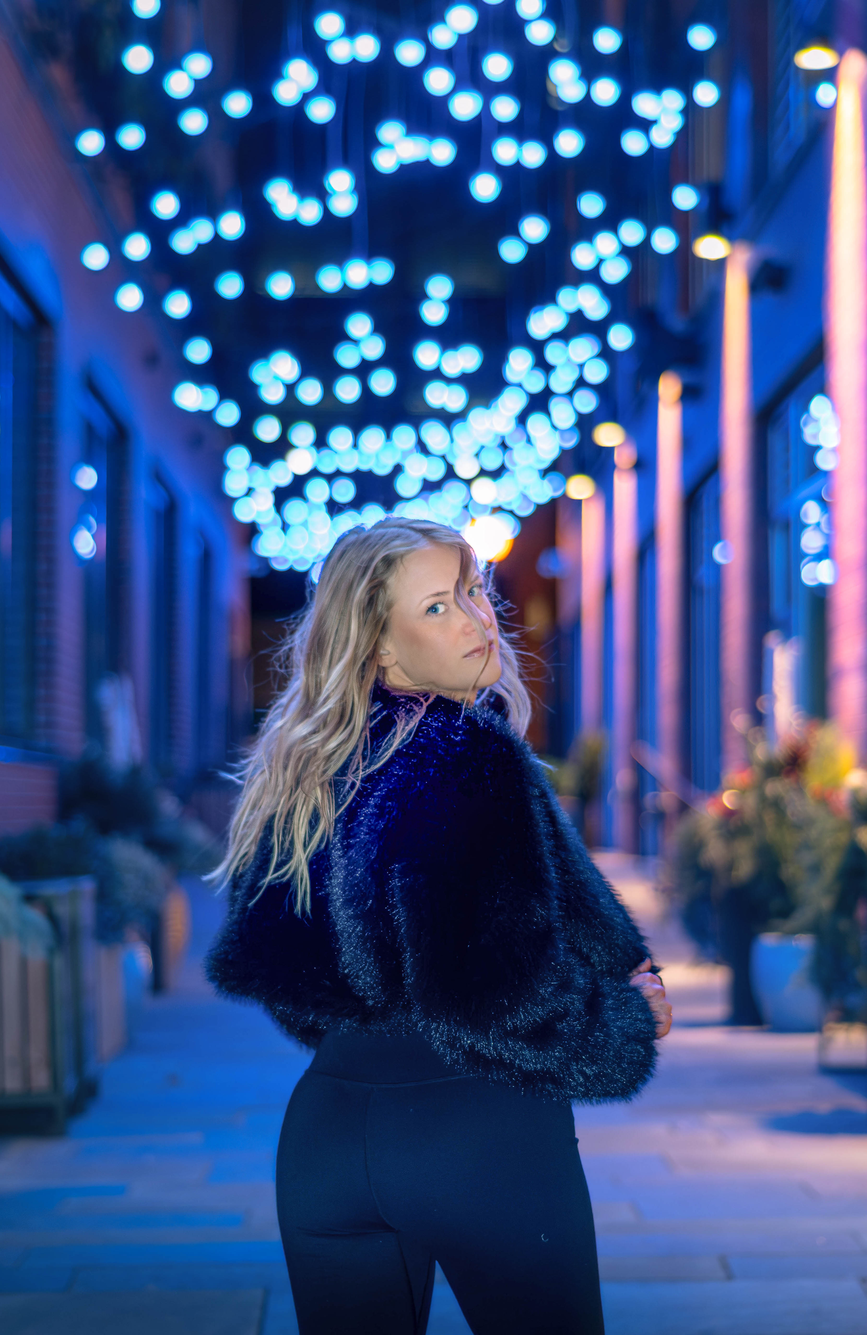
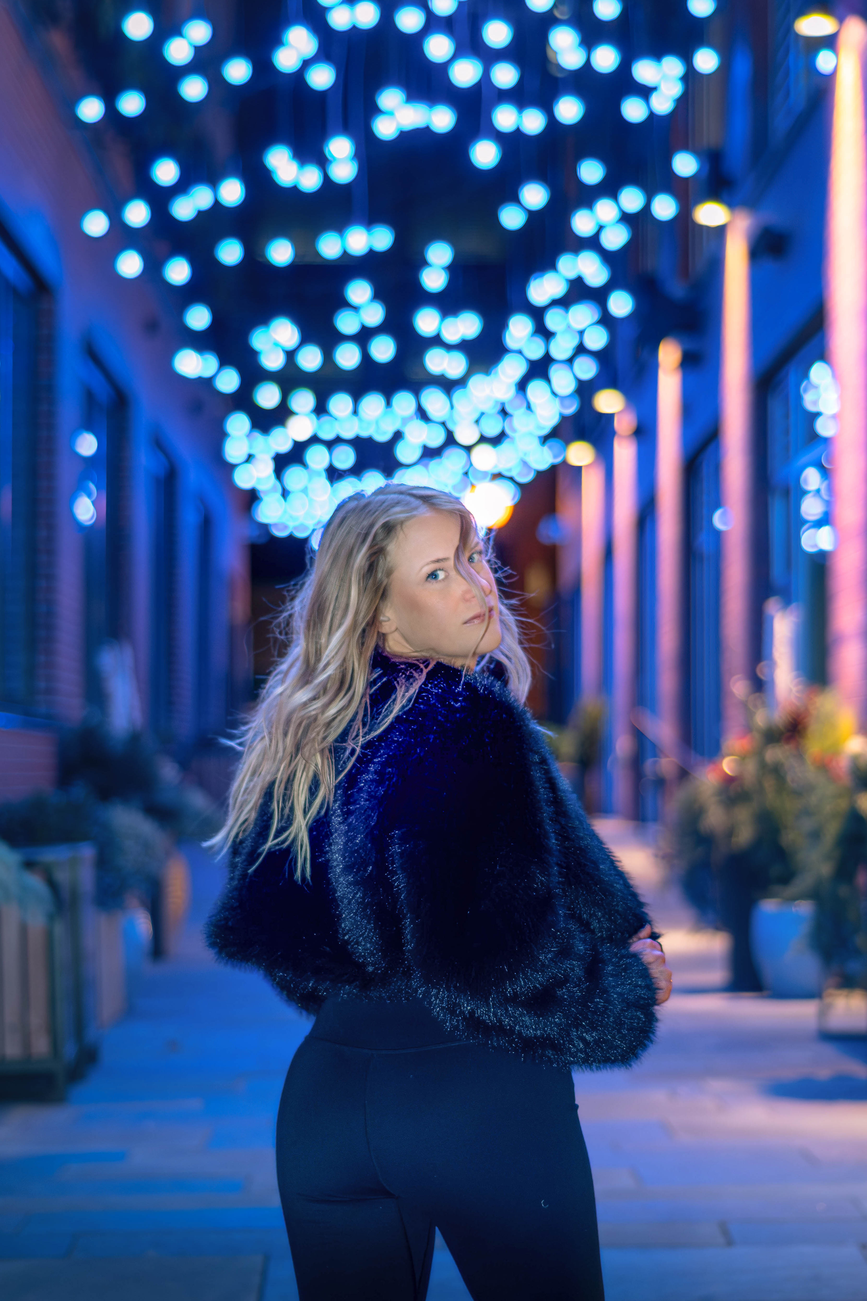
Add the TX rail, curate the second rail, lead with portrait-08
MOBILE_LEAD pins portrait-08 third. The second rail becomes a curated
project (portrait-02, portrait-05, portrait-01) rather than whatever the
2:3 shape group happened to hold - a shape rail is ordered by aspect
ratio, so exact membership and order need a project. portrait-02 was
0.650 against the others' 0.667, which letterboxed it in the panel;
cropped to 2:3 off the empty top.

TX is a second curated project. Its two Big Bend landscapes can't join a
rail - rails take portrait-oriented photos only - so they render in the
grid as featured-07/08, and the rail is the three portrait-shaped TX
photos at a uniform 2:3.

Rail titles were hardcoded to the first rail; they now key off
Photo.project so each curated rail names itself and shape rails stay
untitled.

Also fixes comedy-03, which was declared 3000x4088 but is really
1080x1080 - the stale dimensions put a square photo in a 0.734 group.
DSC_4474-4.JPG was renamed lowercase; the uppercase extension would have
404'd on Vercel's case-sensitive filesystem.

diff --git a/lib/photos.ts b/lib/photos.ts
@@ -44,6 +44,7 @@ export type { Photo };
 export const MOBILE_LEAD: string[] = [
   '/photos/portrait-03.jpg',
   '/photos/music-02.jpg',
+  '/photos/portrait-08.jpg',
   '/photos/portrait-10.jpg',
   '/photos/portrait-07.jpg',
   '/photos/portrait-04.jpg',
@@ -68,7 +69,7 @@ export const featuredPhotos: Photo[] = [
   // vertical
   { src: '/photos/comedy-01.jpg', alt: 'Stacked portrait of three comedians in caps, lit in purple and green', width: 1929, height: 2600, category: 'comedy' },
   { src: '/photos/comedy-02.jpg', alt: 'Distorted composite portrait of a man in a cap and sweatshirt, his face warped by a motion-blur effect', width: 3000, height: 4000, category: 'comedy' },
-  { src: '/photos/comedy-03.jpg', alt: 'Black and white portrait of a smiling, mustached comedian double-exposed with a laughing audience crowd', width: 3000, height: 4088, category: 'comedy' },
+  { src: '/photos/comedy-03.jpg', alt: 'Black and white portrait of a smiling, mustached comedian double-exposed with a laughing audience crowd', width: 1080, height: 1080, category: 'comedy' },
   { src: '/photos/comedy-04.jpg', alt: 'Stylized portrait of a smiling man in a backwards cap and gold chains throwing a peace sign, composited over a stormy city skyline lit by lightning', width: 1122, height: 1402, category: 'comedy', project: 'framed', projectOrder: 2 },
   { src: '/photos/comedy-05.jpg', alt: 'Stylized portrait of a man in a leather jacket and sunglasses composited over a black-and-white crowd scene', width: 1122, height: 1402, category: 'comedy', project: 'framed', projectOrder: 1 },
   { src: '/photos/comedy-15.jpg', alt: 'Comedian gritting his teeth and squinting while pointing a corded microphone at the camera', width: 3712, height: 5568, category: 'comedy' },
@@ -81,15 +82,17 @@ export const featuredPhotos: Photo[] = [
   { src: '/photos/comedy-20.jpg', alt: 'Bald, bearded comedian in sunglasses and a plaid shirt with smoke curling beside him, framed inset over a blurred black-and-white crowd', width: 1080, height: 1350, category: 'comedy' },
   { src: '/photos/comedy-21.jpg', alt: 'Man with a strawberry-blond mullet, mustache, and neck tattoos tilting his head back in a patterned western snap shirt, inside a thin white frame', width: 3799, height: 4749, category: 'comedy', project: 'framed', projectOrder: 4 },
   { src: '/photos/portrait-03.jpg', alt: 'Two women in elaborate Day of the Dead costumes standing in a desert canyon', width: 2666, height: 4000, category: 'portraits' },
-  { src: '/photos/portrait-01.jpg', alt: 'Woman walking away toward a sunlit overlook at golden hour', width: 3981, height: 5972, category: 'portraits' },
-  { src: '/photos/portrait-02.jpg', alt: 'Blonde woman in a navy fur coat glancing back beneath a canopy of blue string lights in a city alley', width: 3615, height: 5561, category: 'portraits' },
+  { src: '/photos/portrait-01.jpg', alt: 'Woman walking away toward a sunlit overlook at golden hour', width: 3981, height: 5972, category: 'portraits', project: 'series-two', projectOrder: 3 },
+  { src: '/photos/portrait-02.jpg', alt: 'Blonde woman in a navy fur coat glancing back beneath a canopy of blue string lights in a city alley', width: 3615, height: 5423, category: 'portraits', project: 'series-two', projectOrder: 1 },
   { src: '/photos/portrait-04.jpg', alt: 'Portrait photograph', width: 5444, height: 8000, category: 'portraits' },
-  { src: '/photos/portrait-05.jpg', alt: 'Woman in a white ruffled dress and studded denim jacket posing with blue cat-eye sunglasses among balloons in purple and blue light', width: 3534, height: 5293, category: 'portraits' },
+  { src: '/photos/portrait-05.jpg', alt: 'Woman in a white ruffled dress and studded denim jacket posing with blue cat-eye sunglasses among balloons in purple and blue light', width: 3534, height: 5293, category: 'portraits', project: 'series-two', projectOrder: 2 },
   { src: '/photos/portrait-06.jpg', alt: 'Three boys goofing around in the middle of a suburban street at sunset, one held upside down over another boy shoulder', width: 3899, height: 5841, category: 'portraits' },
   { src: '/photos/portrait-07.jpg', alt: 'Man in black shirt with gold cross necklace seated on a lounge sofa', width: 1297, height: 1748, category: 'portraits' },
   { src: '/photos/portrait-08.jpg', alt: 'Woman in a leopard-print bodysuit and sunglasses crouching in front of a graffiti mural, glancing back over her shoulder', width: 3924, height: 5878, category: 'portraits' },
   { src: '/photos/featured-01.jpg', alt: 'Sheer canyon walls catching low sun above a still green river that mirrors them', width: 8000, height: 12000 },
-  { src: '/photos/featured-02.jpg', alt: 'Boy in a straw cowboy hat carrying a Texas flag across the granite dome of Enchanted Rock', width: 3024, height: 4032 },
+  { src: '/photos/featured-02.jpg', alt: 'Boy in a straw cowboy hat carrying a Texas flag across the granite dome of Enchanted Rock', width: 2688, height: 4032, project: 'tx', projectOrder: 1 },
+  { src: '/photos/featured-05.jpg', alt: 'Texas longhorn with sweeping horns leaning against a barbed-wire fence, suburban rooftops behind it', width: 3712, height: 5568, project: 'tx', projectOrder: 2 },
+  { src: '/photos/featured-06.jpg', alt: 'Kayakers scattered across Lady Bird Lake at dusk below the downtown Austin skyline', width: 4006, height: 6001, project: 'tx', projectOrder: 3 },
 
   // horizontal
   { src: '/photos/comedy-09.jpg', alt: 'Comedian in a cap speaking into a microphone during his set', width: 4000, height: 2670, category: 'comedy' },
@@ -104,13 +107,15 @@ export const featuredPhotos: Photo[] = [
   { src: '/photos/music-01.jpg', alt: 'Five band members lounging on a couch in a green-lit garage, their eyes glowing white, an acoustic guitar hanging on the wall behind them', width: 5241, height: 3169, category: 'music' },
   { src: '/photos/music-02.jpg', alt: 'Rapper mid-verse with one arm raised, stage lights streaking outward behind him in a zoom blur', width: 6016, height: 4016, category: 'music' },
   { src: '/photos/featured-03.jpg', alt: 'Portrait of Willie Nelson projected in light onto the side of an old bus under a starry night sky', width: 4000, height: 2729 },
+  { src: '/photos/featured-07.jpg', alt: 'Turquoise Rio Grande winding between the sheer limestone walls of Santa Elena Canyon in Big Bend', width: 12000, height: 8000 },
+  { src: '/photos/featured-08.jpg', alt: 'Desert highway curving toward a sunlit peak in Big Bend at sunset', width: 12000, height: 8000 },
 ];
 
 export const comedyPhotos: Photo[] = [
   // vertical
   { src: '/photos/comedy-01.jpg', alt: 'Stacked portrait of three comedians in caps, lit in purple and green', width: 1929, height: 2600 },
   { src: '/photos/comedy-02.jpg', alt: 'Distorted composite portrait of a man in a cap and sweatshirt, his face warped by a motion-blur effect', width: 3000, height: 4000 },
-  { src: '/photos/comedy-03.jpg', alt: 'Black and white portrait of a smiling, mustached comedian double-exposed with a laughing audience crowd', width: 3000, height: 4088 },
+  { src: '/photos/comedy-03.jpg', alt: 'Black and white portrait of a smiling, mustached comedian double-exposed with a laughing audience crowd', width: 1080, height: 1080 },
   { src: '/photos/comedy-04.jpg', alt: 'Stylized portrait of a smiling man in a backwards cap and gold chains throwing a peace sign, composited over a stormy city skyline lit by lightning', width: 1122, height: 1402, project: 'framed', projectOrder: 2 },
   { src: '/photos/comedy-05.jpg', alt: 'Stylized portrait of a man in a leather jacket and sunglasses composited over a black-and-white crowd scene', width: 1122, height: 1402, project: 'framed', projectOrder: 1 },
   { src: '/photos/comedy-15.jpg', alt: 'Comedian gritting his teeth and squinting while pointing a corded microphone at the camera', width: 3712, height: 5568 },
@@ -135,10 +140,10 @@ export const comedyPhotos: Photo[] = [
 export const portraitPhotos: Photo[] = [
   // vertical
   { src: '/photos/portrait-03.jpg', alt: 'Two women in elaborate Day of the Dead costumes standing in a desert canyon', width: 2666, height: 4000 },
-  { src: '/photos/portrait-01.jpg', alt: 'Woman walking away toward a sunlit overlook at golden hour', width: 3981, height: 5972 },
-  { src: '/photos/portrait-02.jpg', alt: 'Blonde woman in a navy fur coat glancing back beneath a canopy of blue string lights in a city alley', width: 3615, height: 5561 },
+  { src: '/photos/portrait-01.jpg', alt: 'Woman walking away toward a sunlit overlook at golden hour', width: 3981, height: 5972, project: 'series-two', projectOrder: 3 },
+  { src: '/photos/portrait-02.jpg', alt: 'Blonde woman in a navy fur coat glancing back beneath a canopy of blue string lights in a city alley', width: 3615, height: 5423, project: 'series-two', projectOrder: 1 },
   { src: '/photos/portrait-04.jpg', alt: 'Portrait photograph', width: 5444, height: 8000 },
-  { src: '/photos/portrait-05.jpg', alt: 'Woman in a white ruffled dress and studded denim jacket posing with blue cat-eye sunglasses among balloons in purple and blue light', width: 3534, height: 5293 },
+  { src: '/photos/portrait-05.jpg', alt: 'Woman in a white ruffled dress and studded denim jacket posing with blue cat-eye sunglasses among balloons in purple and blue light', width: 3534, height: 5293, project: 'series-two', projectOrder: 2 },
   { src: '/photos/portrait-06.jpg', alt: 'Three boys goofing around in the middle of a suburban street at sunset, one held upside down over another boy shoulder', width: 3899, height: 5841 },
   { src: '/photos/portrait-07.jpg', alt: 'Man in black shirt with gold cross necklace seated on a lounge sofa', width: 1297, height: 1748 },
   { src: '/photos/portrait-08.jpg', alt: 'Woman in a leopard-print bodysuit and sunglasses crouching in front of a graffiti mural, glancing back over her shoulder', width: 3924, height: 5878 },

diff --git a/components/PortfolioSectionClassic.tsx b/components/PortfolioSectionClassic.tsx
@@ -110,9 +110,27 @@ interface PortfolioSectionProps {
 const MOBILE_LANDSCAPE_EVERY = 4;
 const MOBILE_RAIL_SIZE = 5;
 
-// Shown once, on the first rail, as the heading for the scrolling gallery
-// that starts there - see MobileRail's `title` prop and .rail-title.
-const RAIL_TITLE = 'K|T Series';
+// Headings for the curated rails, keyed by Photo.project - see MobileRail's
+// `title` prop and .rail-title. Only a project rail is named: a rail built
+// from a shape group is whatever photos happened to share an aspect ratio,
+// so there is nothing to call it, and it renders untitled.
+const RAIL_TITLES: Record<string, string> = {
+  framed: 'K|T Series',
+  tx: 'TX',
+};
+
+/**
+ * The heading for a rail, or undefined for an untitled one. Keyed off the
+ * project every photo in the rail shares - pickRail builds a project rail
+ * from one project's members only, so photos[0] is representative, but the
+ * agreement is checked rather than assumed so a shape rail that happens to
+ * open with a tagged photo can't inherit that project's title.
+ */
+function railTitle(photos: Photo[]): string | undefined {
+  const project = photos[0]?.project;
+  if (!project) return undefined;
+  return photos.every((photo) => photo.project === project) ? RAIL_TITLES[project] : undefined;
+}
 // Columns the desktop masonry packs into. Three sites below have to agree on
 // this - the visual-order walk, the rail's peek rows, and the grid render -
 // and the walk silently mismatches the render rather than erroring if they
@@ -282,13 +300,6 @@ export default function PortfolioSectionClassic({ id, photos, breakoutEvery }: P
     ? [{ type: 'grid' as const, photos: validPhotos }]
     : chunkWithRails(validPhotos, MOBILE_LANDSCAPE_EVERY, MOBILE_RAIL_SIZE, mobileLead);
   let index = 0;
-  // The first rail carries the gallery's title (see MobileRail's `title`
-  // prop); every later one is just another rail. Found rather than
-  // assumed at a fixed position, since where the first rail falls depends
-  // on MOBILE_LEAD and the landscape cadence above. -1 when there are no
-  // rails at all (desktop, or a section without breakoutEvery), which
-  // matches no segmentIndex and so hands the title to nobody.
-  const firstRailIndex = segments.findIndex((segment) => segment.type === 'rail');
 
   // The Lightbox's prev/next order has to match whatever's actually on
   // screen, not validPhotos' original order - which stopped being the same
@@ -397,7 +408,7 @@ export default function PortfolioSectionClassic({ id, photos, breakoutEvery }: P
                   variant="fill"
                   prevRow={prevRow}
                   nextRow={nextRow}
-                  title={segmentIndex === firstRailIndex ? RAIL_TITLE : undefined}
+                  title={railTitle(segment.photos)}
                 />
               );
             }
